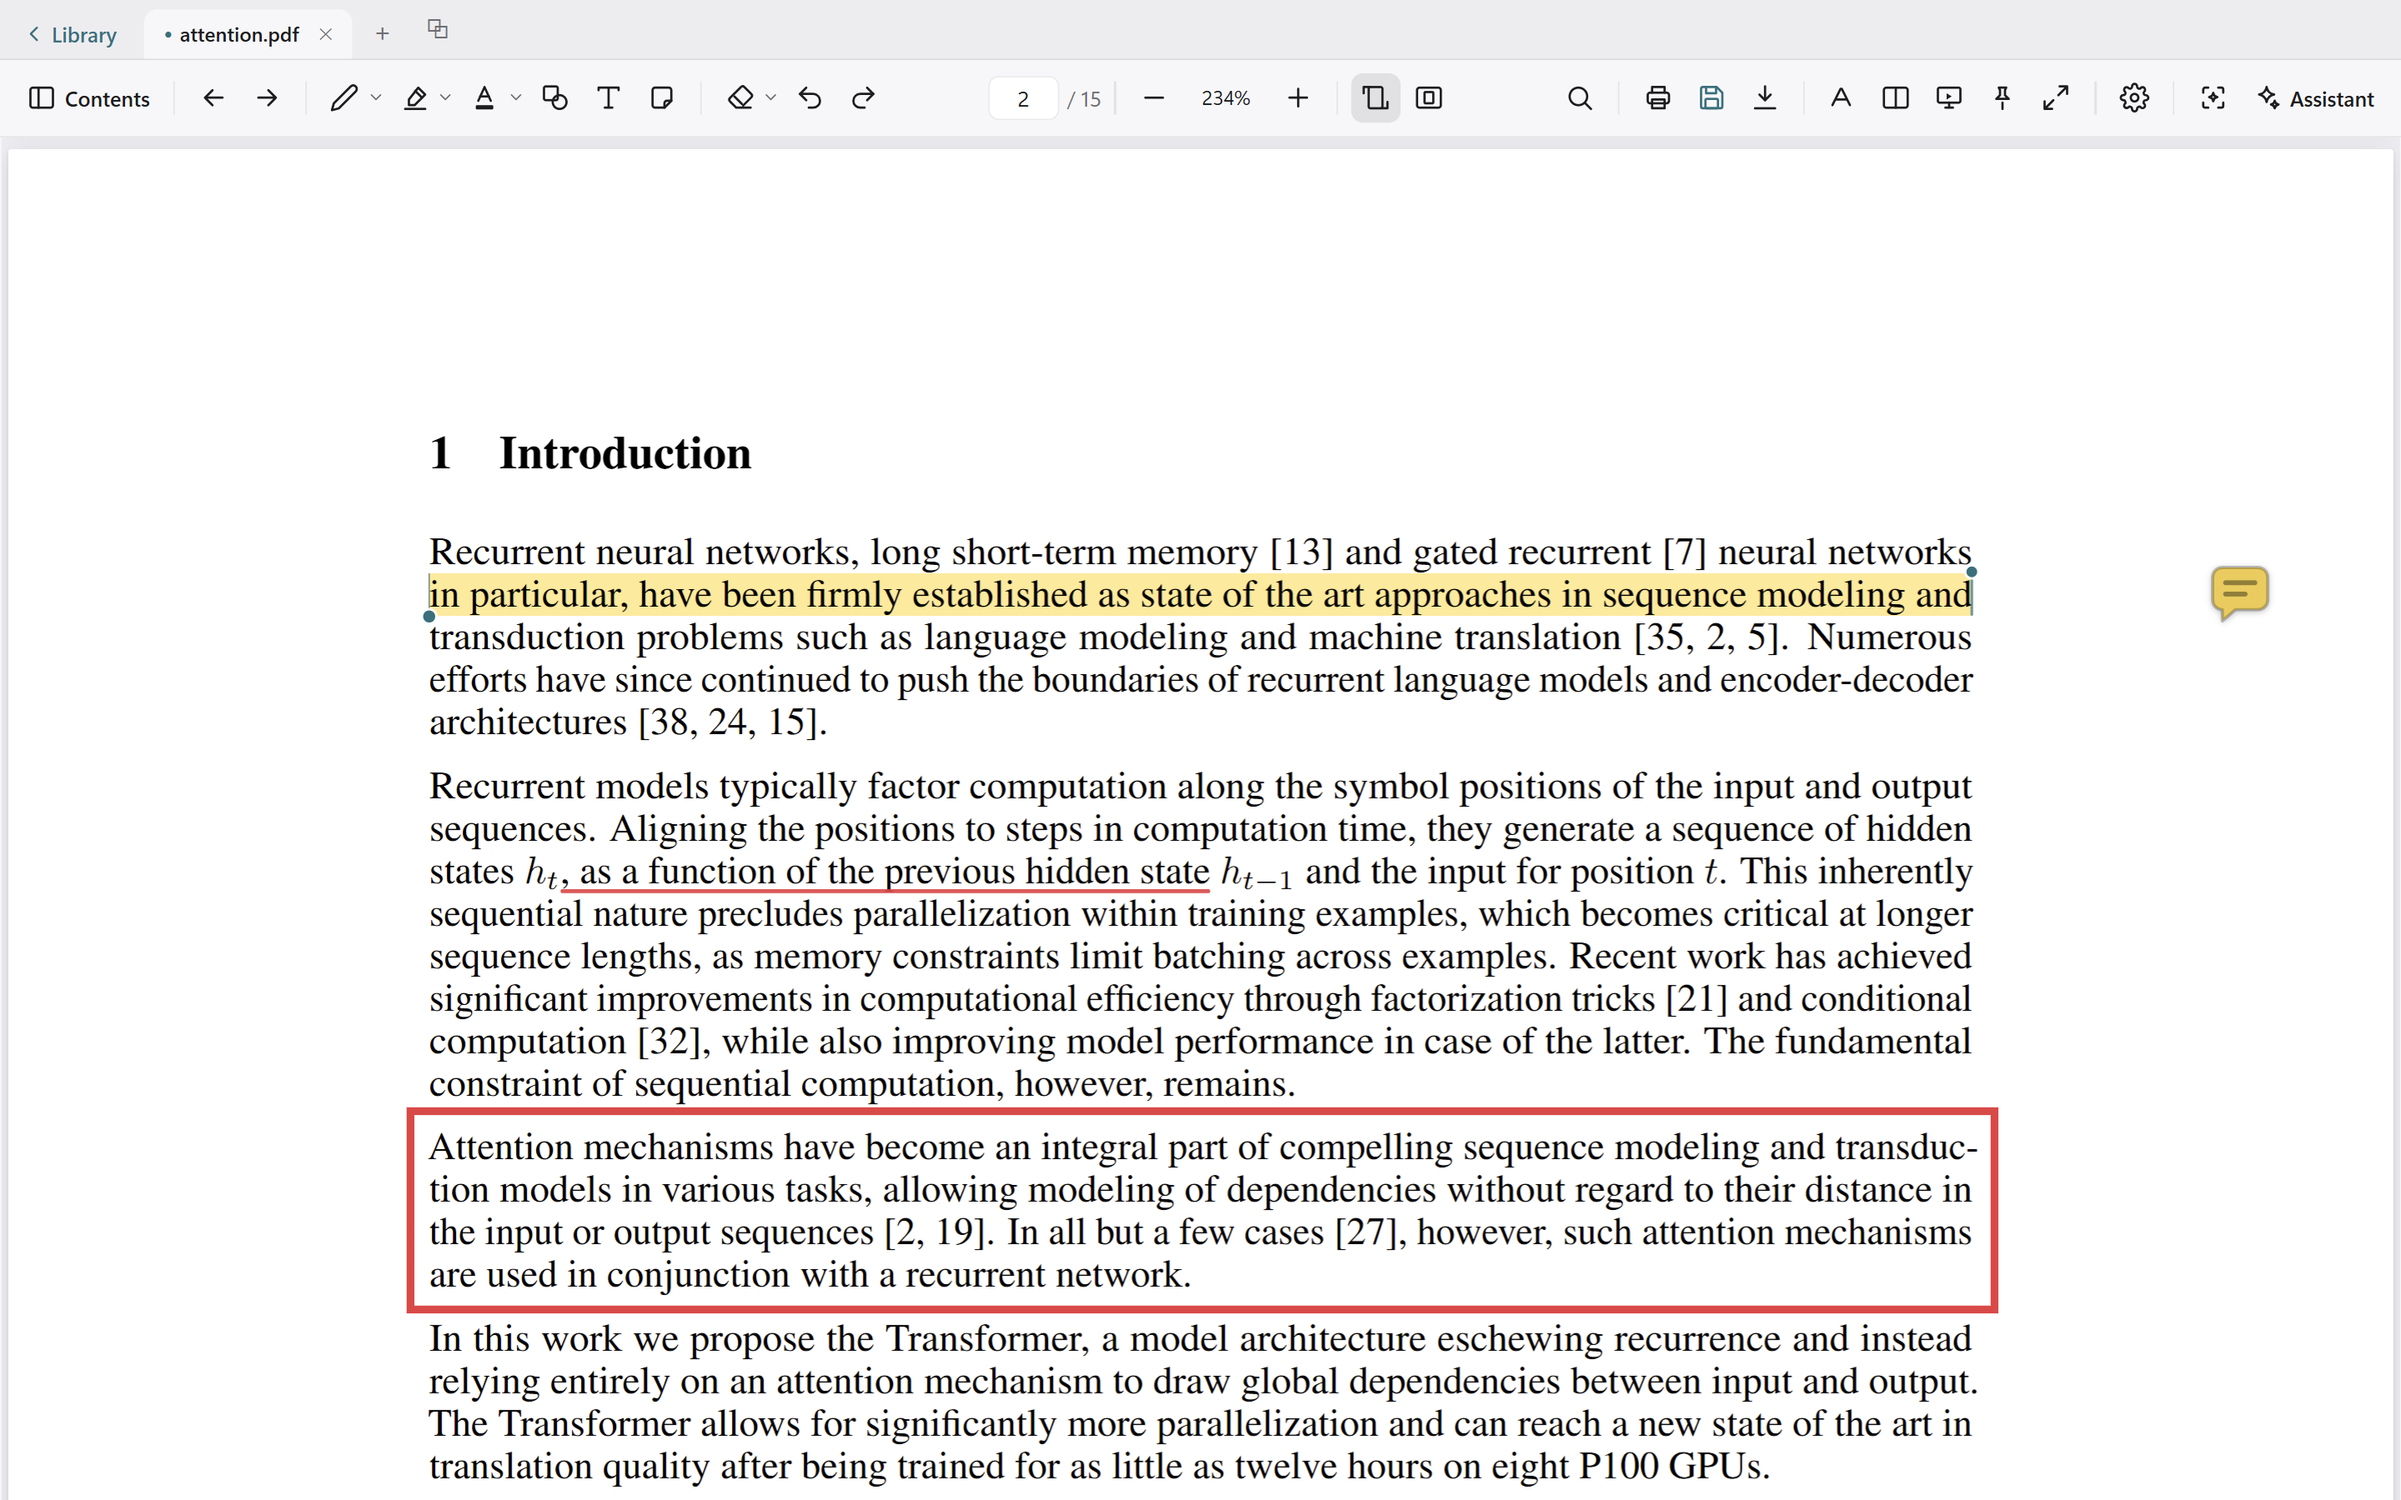
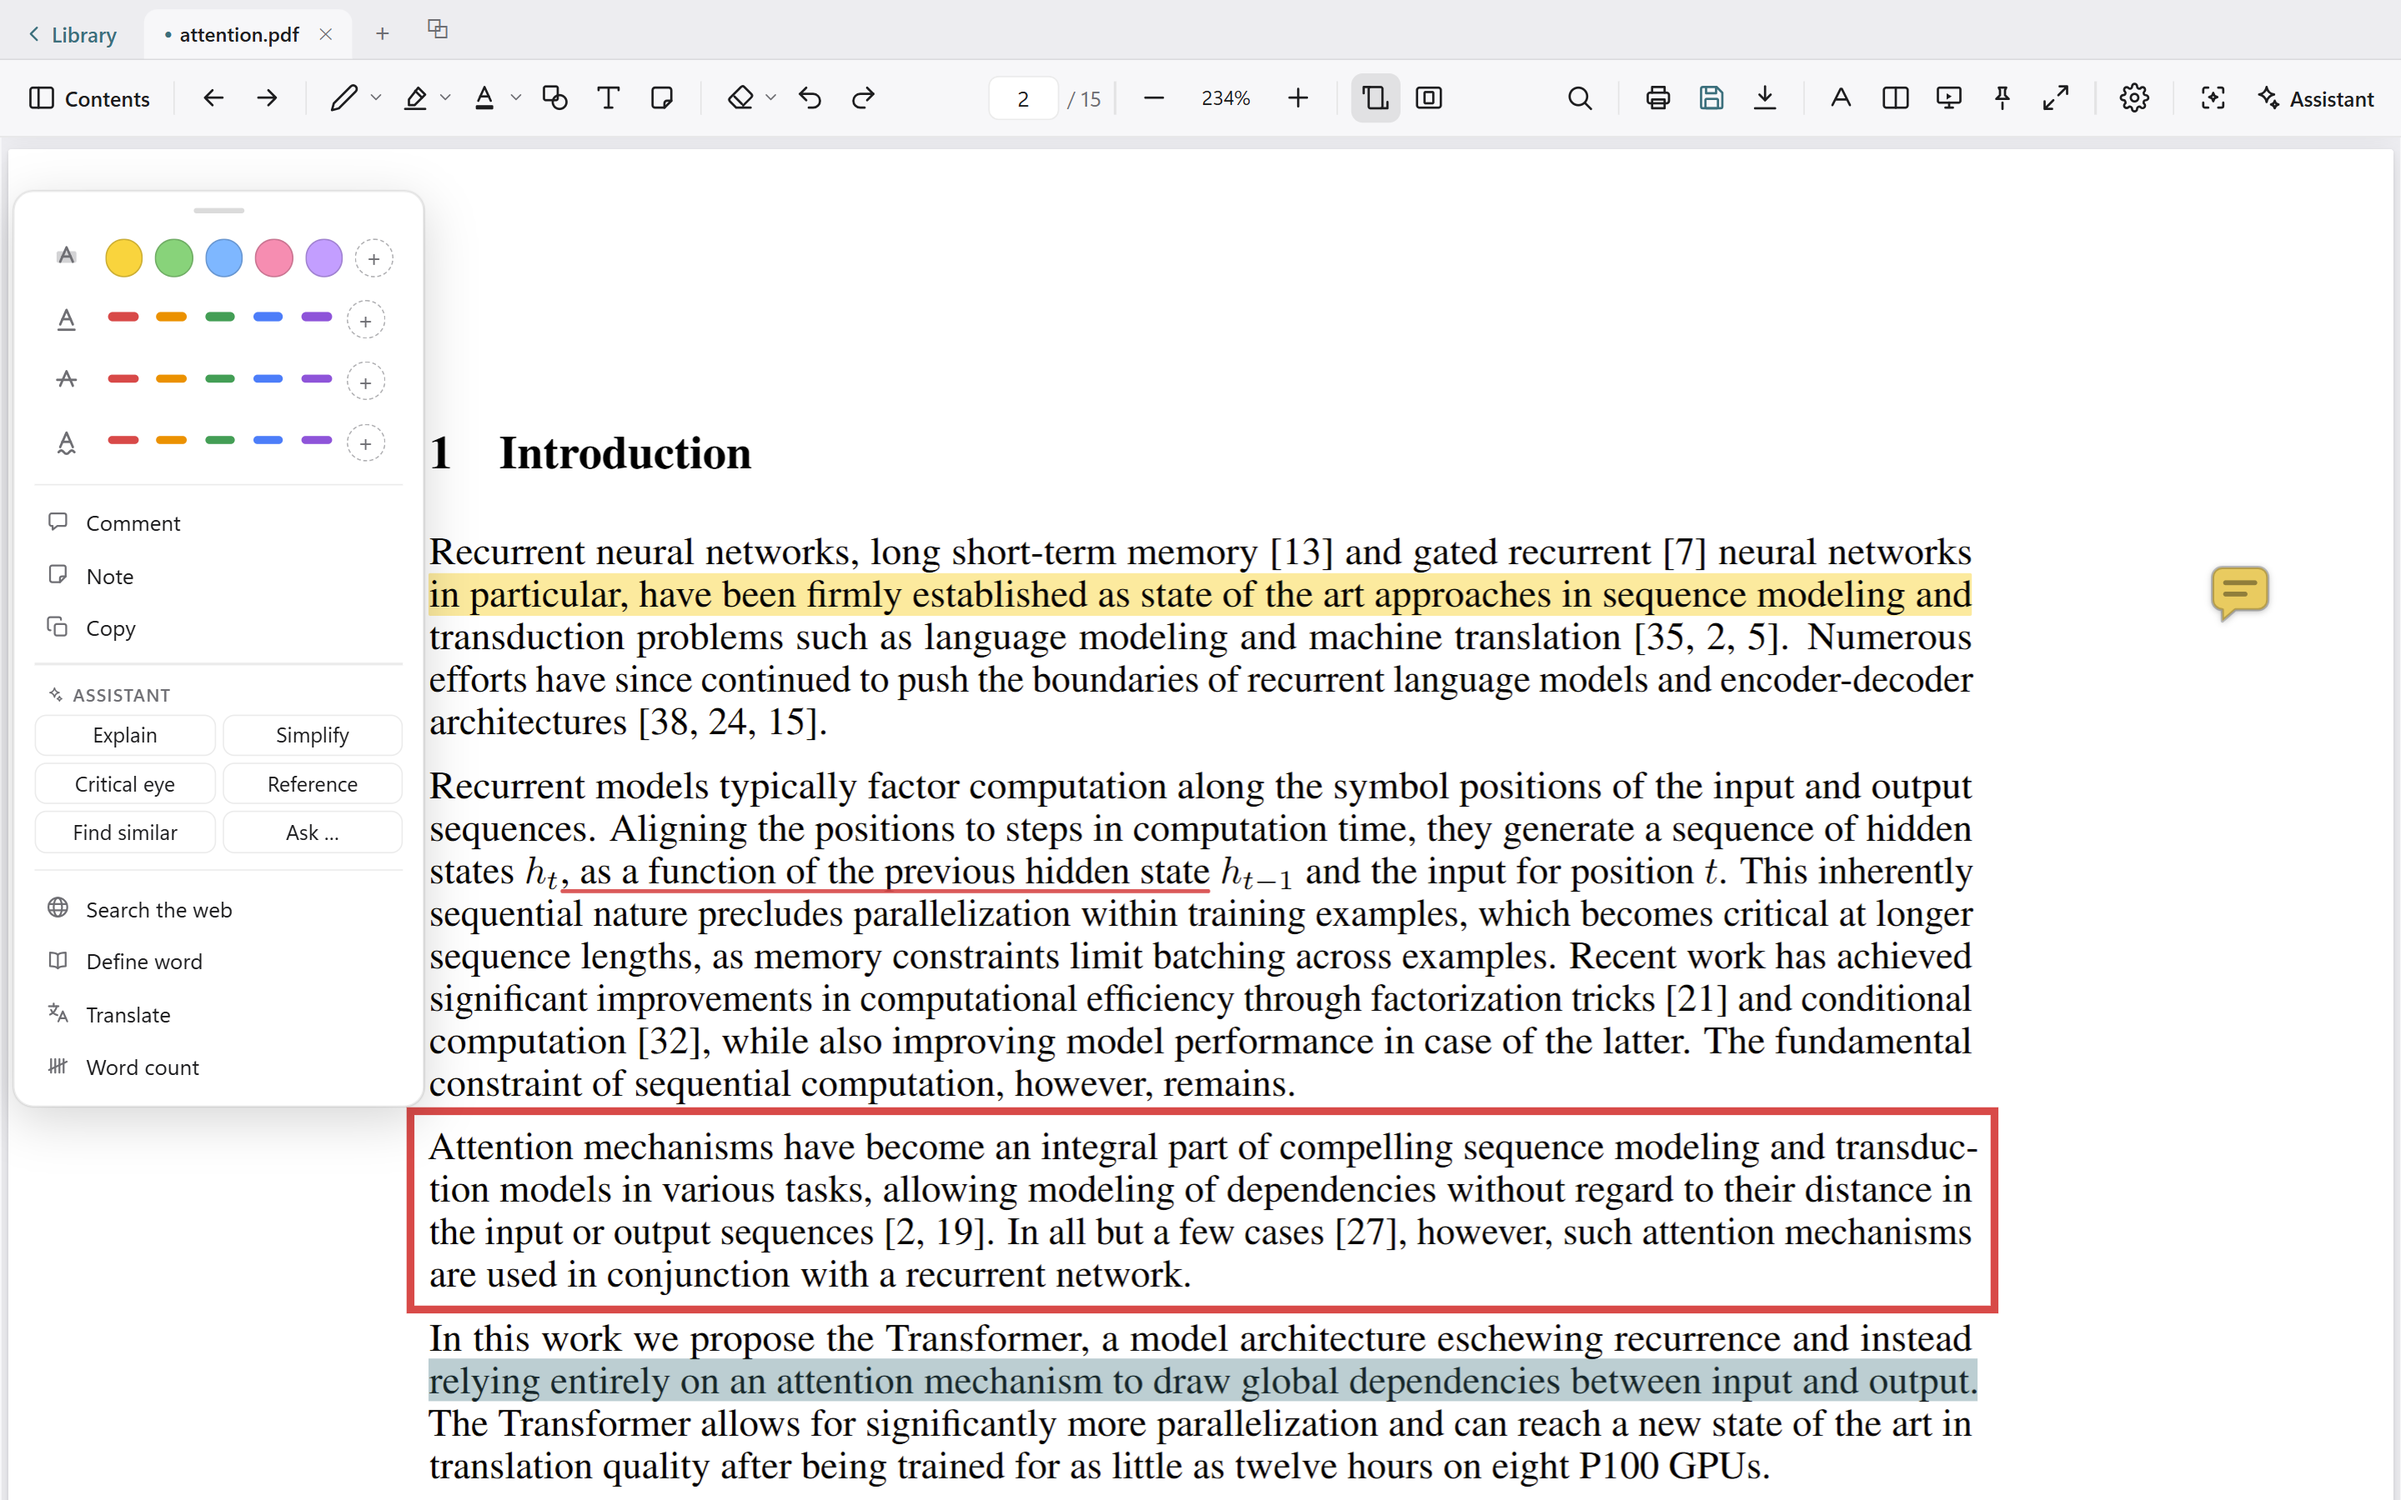
docs: the themes get one frame, and it comes before the features
The look of the thing was the last section of the README and the last but one
of the landing page, three images deep, after the AI assistant. It is the first
thing anyone judges, so it moves up to just after the reading bullets that
promise four themes — and it is now one image instead of three: the same page
in Day, Sepia and Night, wiped across one window.

compose-tricolor can render at the source resolution for that (--full). It
composes on a canvas rather than capturing an offscreen window, because an
offscreen window is silently clamped to the display size and the README frame
is 2880x1800 — wider than this screen, which produced a 1920x1140 file that
claimed to be the right one until the size guard caught it.

parchment/night/night+ are gone from the shipped README set; the tricolor frame
carries them, and the text still names Night+. The annotations frame is
refreshed to the reshot recipe the store set already uses.

diff --git a/docs/index.html b/docs/index.html
@@ -195,8 +195,6 @@
   }
   ul.points b { font-weight: 600; }
 
-  .pair { display: grid; grid-template-columns: 1fr 1fr; gap: 20px; margin-top: 32px; }
-  @media (max-width: 720px) { .pair { grid-template-columns: 1fr; } }
 
   /* ---------- privacy note ---------- */
 
@@ -331,10 +329,7 @@
         are adjustable within each. The interface is available in Norwegian and English.
       </p>
     </div>
-    <div class="pair">
-      <img class="shot" src="screenshots/parchment.png" alt="Sepia theme: the page on warm ivory paper.">
-      <img class="shot" src="screenshots/night.png" alt="Night theme: light text on a near-black page.">
-    </div>
+    <img class="shot" src="screenshots/tricolor.png" alt="The same page in three themes at once: white paper on the left, warm ivory in the middle, near-black on the right.">
   </section>
 
   <div class="note">

diff --git a/README.md b/README.md
@@ -132,6 +132,16 @@ the current desktop-vs-extension parity.
 - Tabs for several open documents, plus multiple windows. **Drag a tab out into its own
   window** to put two documents side by side, or across the bar to reorder
 
+**Language and themes**
+
+![The same page in Day, Sepia and Night — one window, wiped across the three themes](docs/screenshots/tricolor.png)
+
+Above: the same page in Day, Sepia and Night, in one frame. Sepia puts the page on warm
+ivory with a terracotta accent; Night and Night+ are the two dark modes, the second with
+higher contrast for bright text on very dark grey. The interface itself is available in
+Norwegian and English, and the setting also controls the AI prompts, exported documents
+and date formats.
+
 **Split view**
 
 ![Split view — the same paper in two columns, each with its own page and zoom](docs/screenshots/dual-pane.png)
@@ -262,19 +272,6 @@ is already running as you from asking for the key to be decrypted.
 ![Dragging a box around a figure — the crop tool while you are using it](docs/screenshots/assistant_snip.png)
 
 ![Explain a figure — the region you marked sits in the chat above the answer describing it](docs/screenshots/assistant_figure.png)
-
-**Language and themes**
-
-![Sepia theme](docs/screenshots/parchment.png)
-
-The interface is available in Norwegian and English, and the setting also controls the AI
-prompts, exported documents and date formats. Sepia puts the page on warm ivory with a
-terracotta accent; Night and Night+ are the two dark modes, the second with higher
-contrast for bright text on very dark grey.
-
-![Night theme](docs/screenshots/night.png)
-
-![Night+ — the higher-contrast night mode](docs/screenshots/night+.png)
 
 ## Development
 
